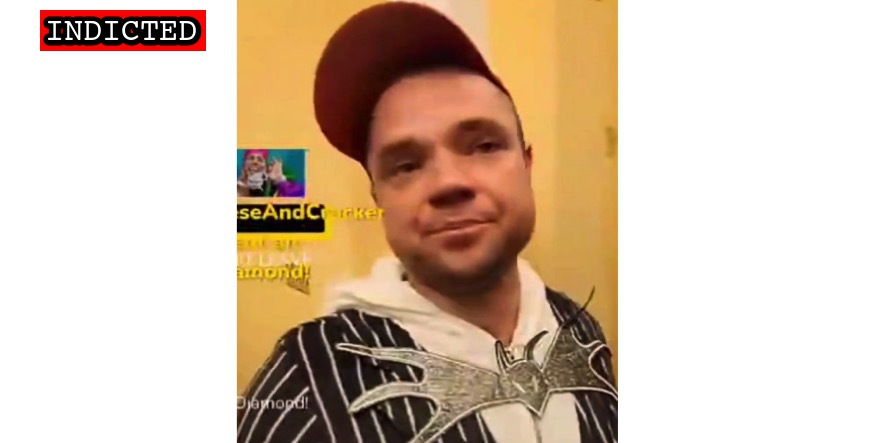
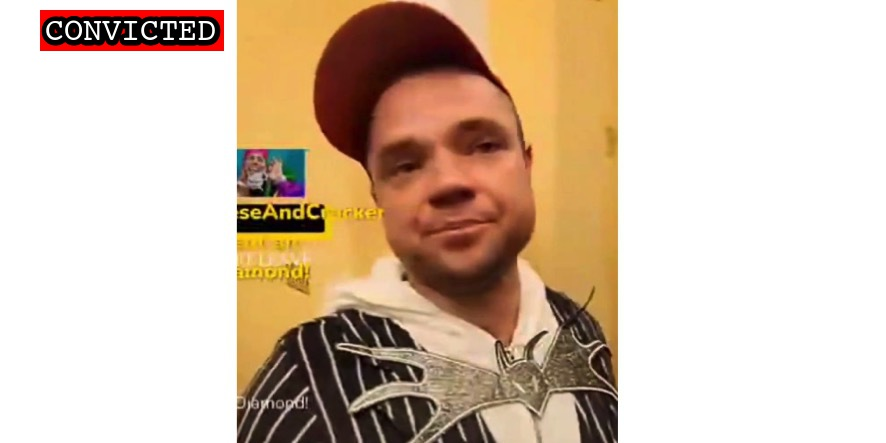
Kenyon plea

Changed region(s): [[0.0305, 0.0293, 0.2743, 0.1174]]

diff --git a/docs/_suspects/josiah-kenyon.md b/docs/_suspects/josiah-kenyon.md
@@ -4,16 +4,19 @@ lastName: Kenyon
 hashtag: PinStripeBoilerSuit
 aka:
 residence: Nevada
-status: Indicted
+status: Convicted
 date: 2021-11-23
 charged: 2021-11-23
 indicted: 2021-12-10
-convicted:
+convicted: 2022-09-14
+acquitted:
 sentenced:
 dismissed:
 deceased:
-plea_hearing:
-sentencing:
+plea_hearing: 2022-09-14
+trial_date:
+trial_type:
+sentencing: 2022-12-15
 age: 34
 occupation:
 affiliations:
@@ -34,9 +37,16 @@ published: true
 caseNumber: 1:21-cr-726
 videos:
 charges:
+  - code: 18 USC § 111(a)(1) and (b)
+    title: Assaulting, resisting, or impeding certain officers or employees (using a deadly or dangerous weapon)
+    url: https://www.law.cornell.edu/uscode/text/18/111
+    felony: true
 sentence:
 ---
 
 - [News Report](https://thisisreno.com/2021/12/nevada-man-faces-charges-in-jan-6-capitol-assault/)
 - [Statement of Facts](https://www.justice.gov/usao-dc/case-multi-defendant/file/1459136/download)
 - [Indictment](https://www.justice.gov/usao-dc/case-multi-defendant/file/1459126/download)
+- [Plea Agreement](https://storage.courtlistener.com/recap/gov.uscourts.dcd.238379/gov.uscourts.dcd.238379.19.0_1.pdf)
+- [Statement of Offense](https://storage.courtlistener.com/recap/gov.uscourts.dcd.238379/gov.uscourts.dcd.238379.20.0_1.pdf)
+- [DOJ Press Release (Conviction)](https://www.justice.gov/usao-dc/pr/nevada-man-pleads-guilty-assaulting-officers-during-jan-6-capitol-breach)
